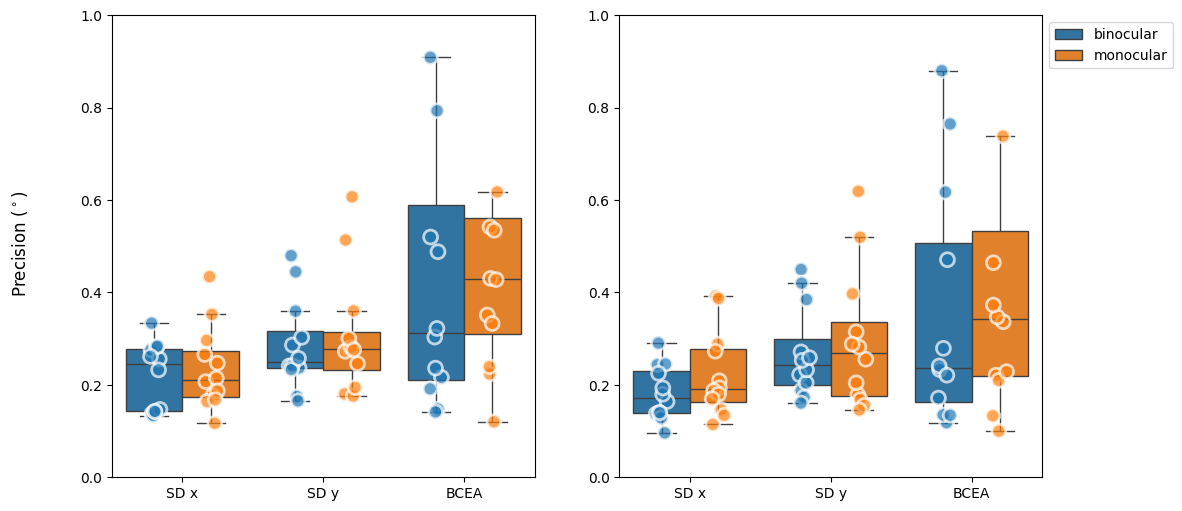
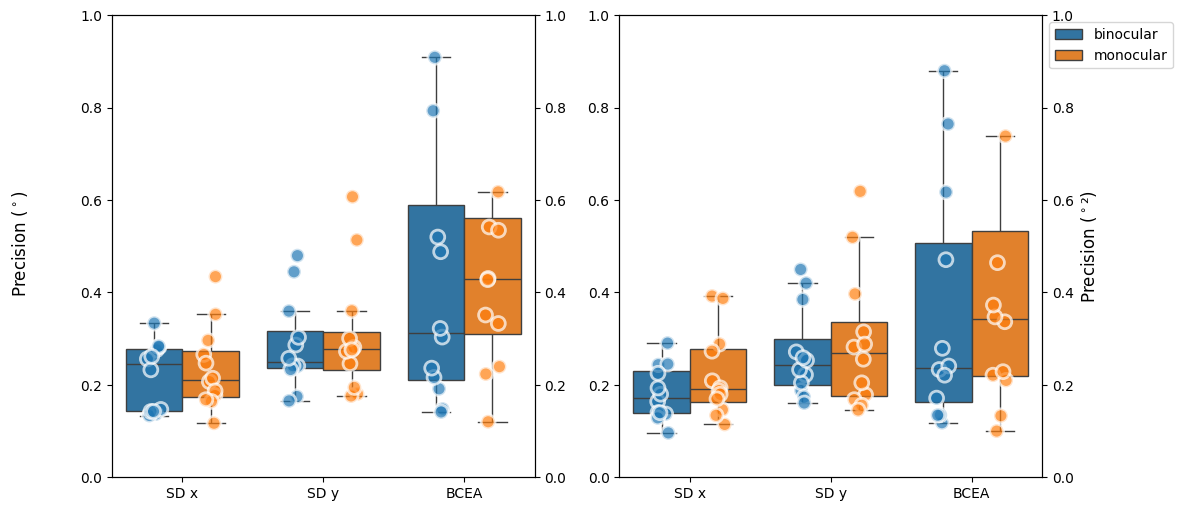
.

diff --git a/vergence_visual_axis_trace.py b/vergence_visual_axis_trace.py
@@ -2,6 +2,8 @@
 import os
 import numpy as np
 import matplotlib.pyplot as plt
+from matplotlib import rcParams
+import seaborn as sns
 
 # %matplotlib inline
 
@@ -11,6 +13,7 @@ from helpers.stimulus_data import StimulusData
 
 # set subject IDs
 subject_ID = 's008'
+font_size = 10
 # set parameters
 procedures = [RecordingState.VERGENCE_DISTANCE_3.name.lower(),
               RecordingState.VERGENCE_DISTANCE_1.name.lower()]
@@ -47,7 +50,7 @@ for index_procedure, procedure in enumerate(procedures):
         end_time = value['end_time'] - timestamp0
         indices = [i for i, t in enumerate(time) if start_time <= t <= end_time]
         target_vergence[indices] = vergence_target(stimulus_position, left_cor, right_cor)
-
+        
     left_ver = np.arcsin(left_visual_axis[:,1])
     left_hor = np.arcsin(left_visual_axis[:,0] / np.cos(left_ver))
     left_ver_deg = np.degrees(left_ver)
@@ -59,13 +62,6 @@ for index_procedure, procedure in enumerate(procedures):
     right_hor_deg = np.degrees(right_hor)
 
     gaze_vergence = np.degrees(np.arccos(np.sum(left_visual_axis * right_visual_axis, axis=1))) # np.sum(var1 * var2, axis=1) takes the elementwise dotproduct for each row of both vars
-    # gaze_vergence = np.abs(left_hor_deg - right_hor_deg) # enkel horizontal vergentie?
-    # axs[0,index_procedure].plot(time, left_pog_degrees[:,0], label='OS')
-    # axs[0,index_procedure].plot(time, right_pog_degrees[:,0], label='OD')
-    # axs[0,index_procedure].set_ylim([-15,15])
-    # axs[1,index_procedure].plot(time, left_pog_degrees[:,1])
-    # axs[1,index_procedure].plot(time, right_pog_degrees[:,1])
-    # axs[1,index_procedure].set_ylim([-15,15])
 
     axs[0,index_procedure].plot(time, left_hor_deg, label='OS')
     axs[0,index_procedure].plot(time, right_hor_deg, label='OD')
@@ -77,8 +73,8 @@ for index_procedure, procedure in enumerate(procedures):
     axs[2,index_procedure].plot(time, target_vergence, color='black', label='Target')
     axs[2,index_procedure].set_ylim([2,11])
 
-axs[0,0].set_title('Targets at 350 mm from subject')
-axs[0,1].set_title('Targets at 610 mm from subject')
+# axs[0,0].set_title('Targets at 350 mm from subject')
+# axs[0,1].set_title('Targets at 610 mm from subject')
 # axs[0,0].set_ylabel(u'Horizontal POG\n(\N{DEGREE SIGN})')
 # axs[1,0].set_ylabel(u'Vertical POG\n(\N{DEGREE SIGN})')
 axs[0,0].set_ylabel(u'Horizontal\nVisual Axis\nAngle (\N{DEGREE SIGN})')
@@ -88,8 +84,18 @@ axs[2,1].set_xlabel('Time (s)')
 axs[2,0].set_ylabel(u'Vergence (\N{DEGREE SIGN})')
 # axs[2,0].set_ylim([4,7])
 # axs[2,1].set_ylim([7,10])
-axs[0,1].legend(loc='upper right')
-axs[2,1].legend(loc='upper right')
+axs[0,1].legend(loc='upper left', bbox_to_anchor=(1, 1))
+axs[2,1].legend(loc='upper left', bbox_to_anchor=(1, 1))
+
+# add labels to the subplots
+axs[0, 0].annotate('A', xy=(0.01, 0.99), xycoords='axes fraction', fontsize=font_size, ha='left', va='top')
+axs[0, 1].annotate('B', xy=(0.01, 0.99), xycoords='axes fraction', fontsize=font_size, ha='left', va='top')
+axs[1, 0].annotate('C', xy=(0.01, 0.99), xycoords='axes fraction', fontsize=font_size, ha='left', va='top')
+axs[1, 1].annotate('D', xy=(0.01, 0.99), xycoords='axes fraction', fontsize=font_size, ha='left', va='top')
+axs[2, 0].annotate('E', xy=(0.01, 0.99), xycoords='axes fraction', fontsize=font_size, ha='left', va='top')
+axs[2, 1].annotate('F', xy=(0.01, 0.99), xycoords='axes fraction', fontsize=font_size, ha='left', va='top')
+
 figure.tight_layout()
+rcParams.update({'font.size': font_size})
 plt.show()
 # %%

diff --git a/eyetracker_experiment1.py b/eyetracker_experiment1.py
@@ -52,6 +52,7 @@ ae_x = np.array([])
 ae_y = np.array([])
 vae = np.array([]) # Vecotrial amplitude, in oculomotor literatuur wordt dit vaak R genoemd
 ae_vergences = np.array([])
+sigma_xy = np.array([])
 
 for procedure in procedures:
     stimulus_numbers = np.linspace(1,35,35)
@@ -84,7 +85,7 @@ for procedure in procedures:
                 mean_pog_deg = np.nanmean(pog_degrees[stimulus_indices,:2], axis=0)
                 # precision_SD = np.nanstd(pog_degrees[stimulus_indices,:2], axis=0)
                 # precision_R_SD = calculate_sd_2d_array(pog_degrees[stimulus_indices,:2])
-                bcea, sigma_x, sigma_y = calculate_bcea(pog_degrees[stimulus_indices,:2])
+                bcea, sigma_x, sigma_y, sigma_xy_ = calculate_bcea(pog_degrees[stimulus_indices,:2])
                 precision_S2S = calculate_rms_s2s(pog_degrees[stimulus_indices,:2])
                 stim_pos_deg = stim_degrees[stimulus_indices[0]]
                 outlier = is_outlier[stimulus_indices[0]]
@@ -132,6 +133,7 @@ for procedure in procedures:
                     viewing = np.append(viewing, f'{ocular}')
                     eye_id = np.append(eye_id, f'{eye}')
                     ae_vergences = np.append(ae_vergences, ae_vergence)
+                    sigma_xy = np.append(sigma_xy, sigma_xy_)
 
 data = pd.DataFrame({
     'subject ID': subject_ids,
@@ -153,7 +155,8 @@ data = pd.DataFrame({
     'outlier': outliers,
     'viewing': viewing,
     'eye': eye_id,
-    'ae vergence': ae_vergences
+    'ae vergence': ae_vergences,
+    'sigma xy': sigma_xy
 })
 
 data_single_subject = data[data['subject ID'] == 's003']
@@ -393,6 +396,11 @@ axs3[0].set_xlabel('')
 axs3[0].set_ylabel('')
 axs3[0].legend_.remove()
 
+# Create a secondary y-axis on the right
+ax3_0 = axs3[0].twinx()
+ax3_0.set_ylim([0, 1**2])
+ax3_0.set_ylabel('')
+
 sns.boxplot(x='precision type', y='precision value', hue='viewing', data=melted_sd_subject_central,
             ax=axs3[1], showfliers=False)
 sns.stripplot(x='precision type', y='precision value', hue='viewing', data=melted_sd_subject_central, 
@@ -401,6 +409,11 @@ sns.stripplot(x='precision type', y='precision value', hue='viewing', data=melte
 axs3[1].set_ylim([0, 1])
 axs3[1].set_xlabel('')
 axs3[1].set_ylabel('')
+
+# Create a secondary y-axis on the right
+ax3_1 = axs3[1].twinx()
+ax3_1.set_ylim([0, 1**2])
+ax3_1.set_ylabel('Precision ($^\circ$²)', fontsize=12)
 
 # Simplify legend by removing the word "viewing"
 handles, labels = axs3[1].get_legend_handles_labels()

diff --git a/vergence_distance.py b/vergence_distance.py
@@ -1,6 +1,7 @@
 #%%
 import numpy as np, pandas as pd
 import matplotlib.pyplot as plt
+from matplotlib import rcParams
 import statsmodels.formula.api as smf
 import seaborn as sns
 # %matplotlib qt
@@ -160,8 +161,8 @@ subjects = data['subject_id'].unique()
 
 # Plotting the data
 plt.figure(figsize=(10, 6))
-# sns.scatterplot(x='target_vergence', y='measured_vergence', hue='subject_id', data=data, palette='tab10')
-# Plot each subject with a unique marker and color
+
+# scatter plt each subject with a unique marker and color
 sns.scatterplot(x='target_vergence',
 y='measured_vergence',
 data=data,
@@ -189,34 +190,22 @@ random_effects = [
 
 for random_intercept in random_effects:
     y_vals = (intercept + random_intercept) + slope * x_vals
-    plt.plot(x_vals, y_vals)
-
-# from python:
-# # Extract random effects
-# random_effects = result.random_effects
-# # print(random_effects)
-
-# # Plot regression lines for each subject
-# for subject in subjects:
-#     # Get the random intercept for this subject
-#     random_intercept = random_effects[subject]['Group']
-#     # Compute the predicted y values for this subject
-#     y_vals = (intercept + random_intercept) + slope * x_vals
-#     plt.plot(x_vals, y_vals)
+    plt.plot(x_vals, y_vals, zorder=0)
 
 # Compute the predicted y values
 y_vals = intercept + slope * x_vals
 
-plt.plot(x_vals, y_vals, color='black', label='Regression')
-
+plt.plot(x_vals, y_vals, color='black', label='Regression', zorder=0)
 
 # Plotting the identity line (y = x)
-plt.plot(x_vals, x_vals, color='gray', linestyle='--', label='Identity')
+plt.plot(x_vals, x_vals, color='gray', linestyle='--', label='Identity', zorder=0)
+
 
 # Customizing the plot
-plt.title('Measured Vergence vs. Target Vergence')
+rcParams.update({'font.size': 16})
 plt.xlabel(u'Target Vergence (\N{DEGREE SIGN})')
 plt.ylabel(u'Measured Vergence (\N{DEGREE SIGN})')
-plt.legend()
+plt.legend(loc='upper left', bbox_to_anchor=(1, 1))
+plt.tight_layout()
 plt.show()
 # %%

diff --git a/vergence_pupil_area.py b/vergence_pupil_area.py
@@ -2,6 +2,7 @@
 import os
 import numpy as np, pandas as pd
 import matplotlib.pyplot as plt
+from matplotlib import rcParams
 import seaborn as sns
 from scipy.stats import pearsonr, spearmanr, chi2
 import statsmodels.formula.api as smf
@@ -108,18 +109,18 @@ random_intercepts = [
 ]
 for random_intercept, random_slope in zip(random_intercepts, random_slopes):
     y_vals = (intercept + random_intercept) + (slope + random_slope) * x_vals
-    plt.plot(x_vals, y_vals)
+    plt.plot(x_vals, y_vals, zorder=0)
 
 # Compute the predicted y values
 y_vals = intercept + slope * x_vals
 
-plt.plot(x_vals, y_vals, color='black', label='Regression')
+plt.plot(x_vals, y_vals, color='black', label='Regression', zorder=0)
 
 
 
 # Customizing the plot
-plt.title('Measured Vergence vs. Average Pupil Area')
+rcParams.update({'font.size': 16})
 plt.xlabel(u'Average Pupil Area (pixels)')
-plt.ylabel(u'Measured Vergence (\N{DEGREE SIGN})')
-plt.legend()
+plt.ylabel(r'$ \alpha_{measured} (\degree)$')
+plt.legend(loc='upper left', bbox_to_anchor=(1, 1))
 plt.show()

diff --git a/helpers/calculate_bcea.py b/helpers/calculate_bcea.py
@@ -45,7 +45,7 @@ def calculate_bcea(data: np.ndarray, k: float = 1.14) -> float:
     
     if n == 0:
         warnings.warn("No valid data points available after removing NaNs", UserWarning)
-        return np.nan, np.nan, np.nan
+        return np.nan, np.nan, np.nan, np.nan
     
     # Standard deviations
     sigma_x = np.std(x_coords, ddof=1)
@@ -54,12 +54,12 @@ def calculate_bcea(data: np.ndarray, k: float = 1.14) -> float:
     # Covariance
     covariance = np.cov(x_coords, y_coords, ddof=1)
     sigma_xy = covariance[0, 1]
-    
+
     # Correlation coefficient
     rho = sigma_xy / (sigma_x * sigma_y)
     
     # BCEA calculation
     bcea = 2 * k * np.pi * sigma_x * sigma_y * np.sqrt(1 - rho**2)
     
-    return bcea, sigma_x, sigma_y
+    return bcea, sigma_x, sigma_y, rho
 
